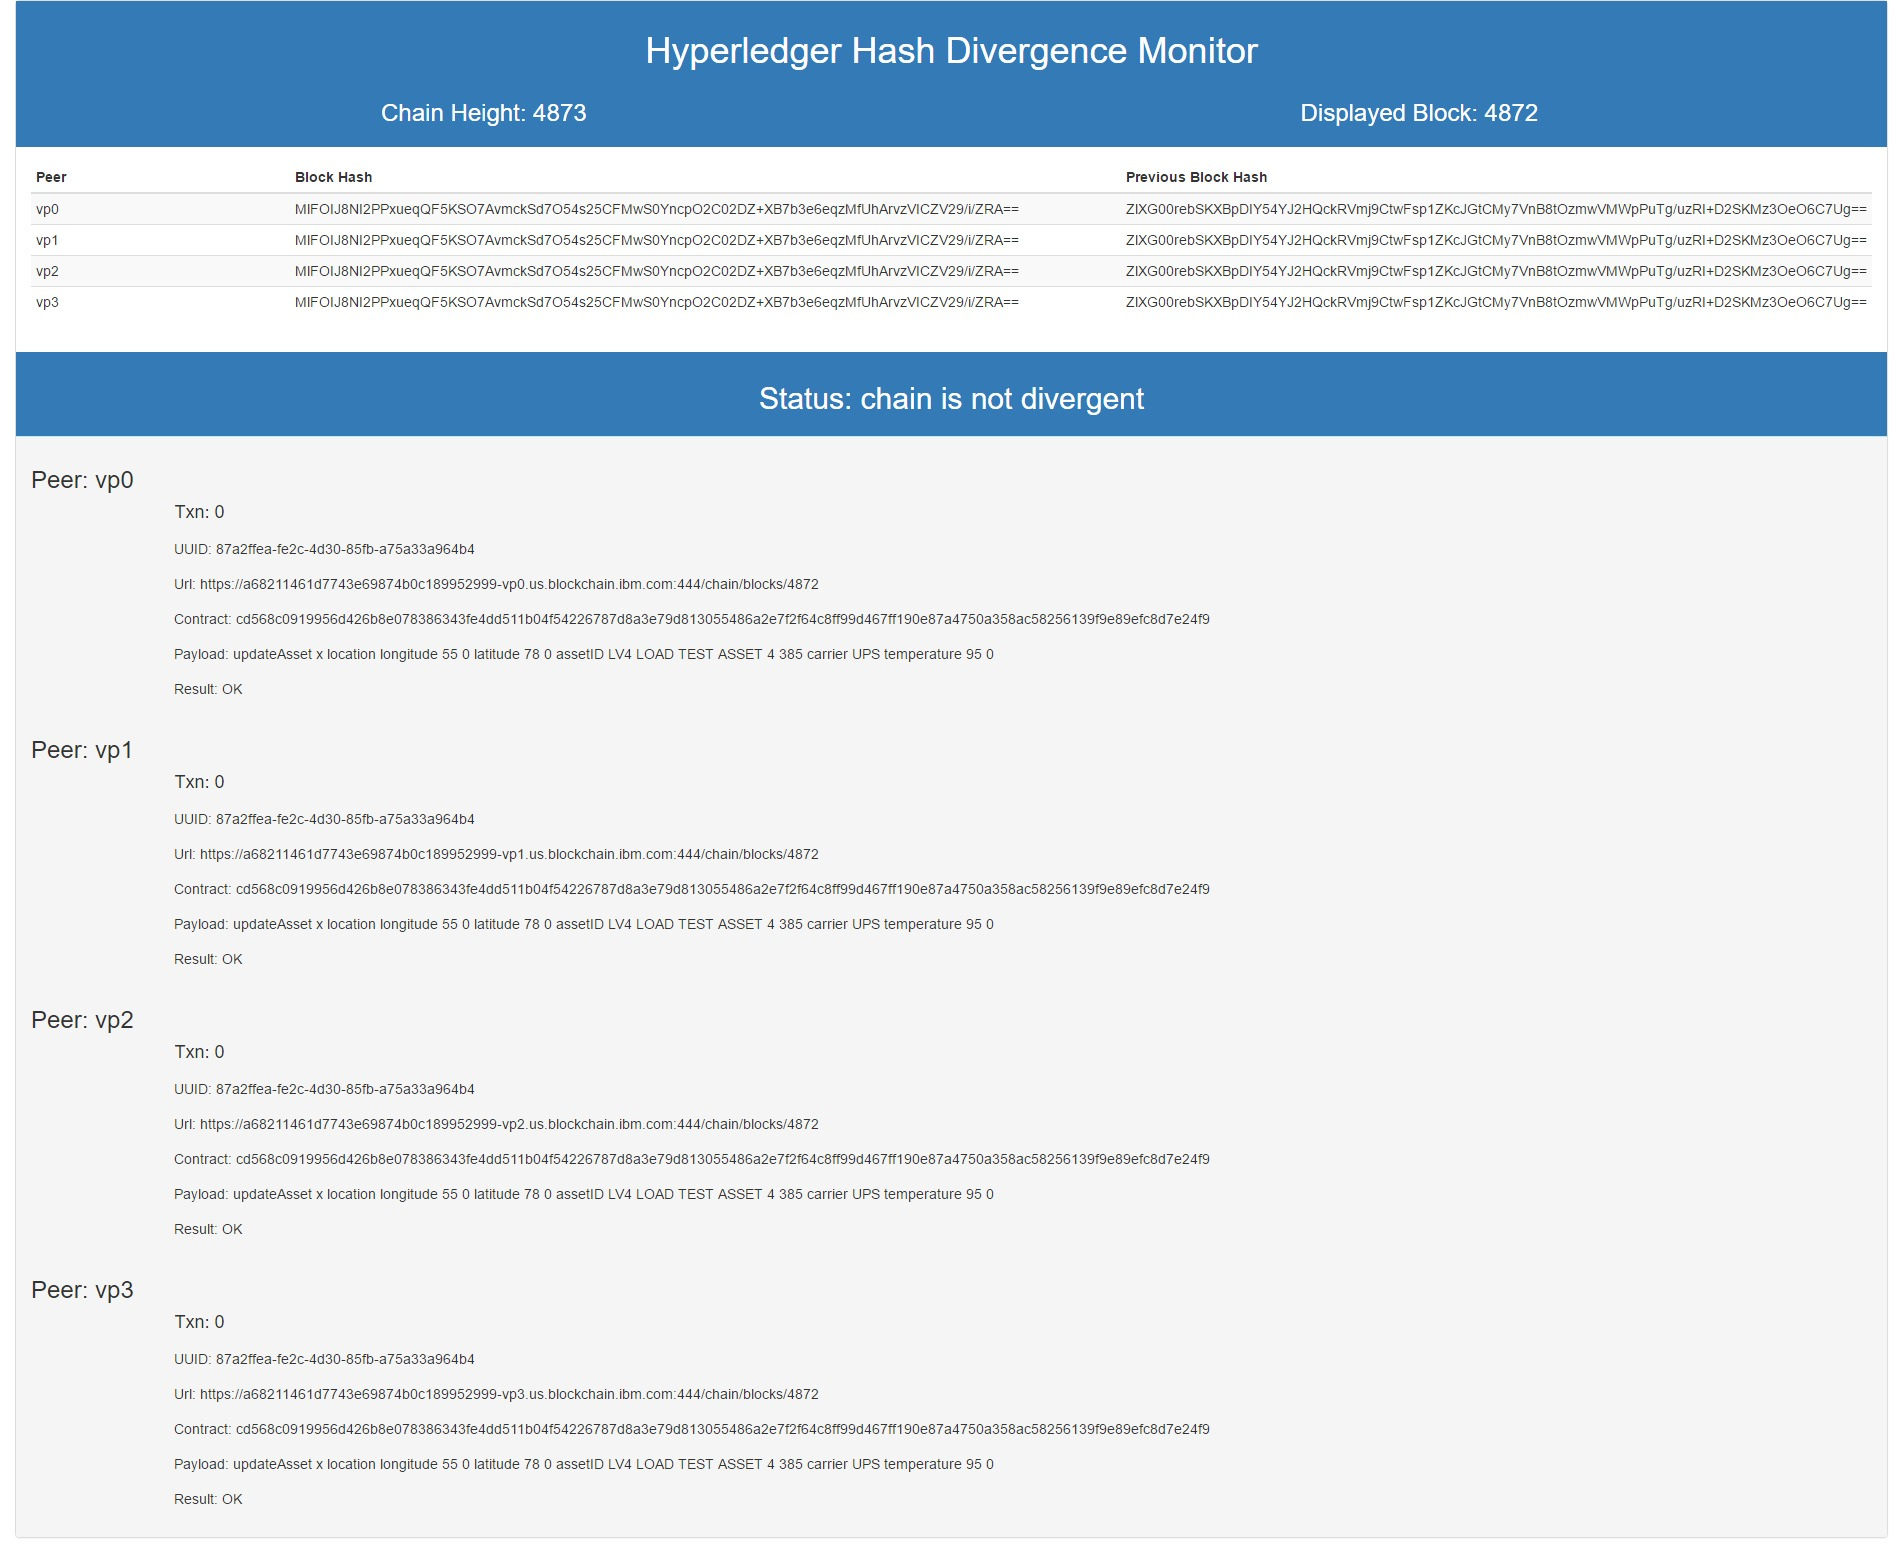
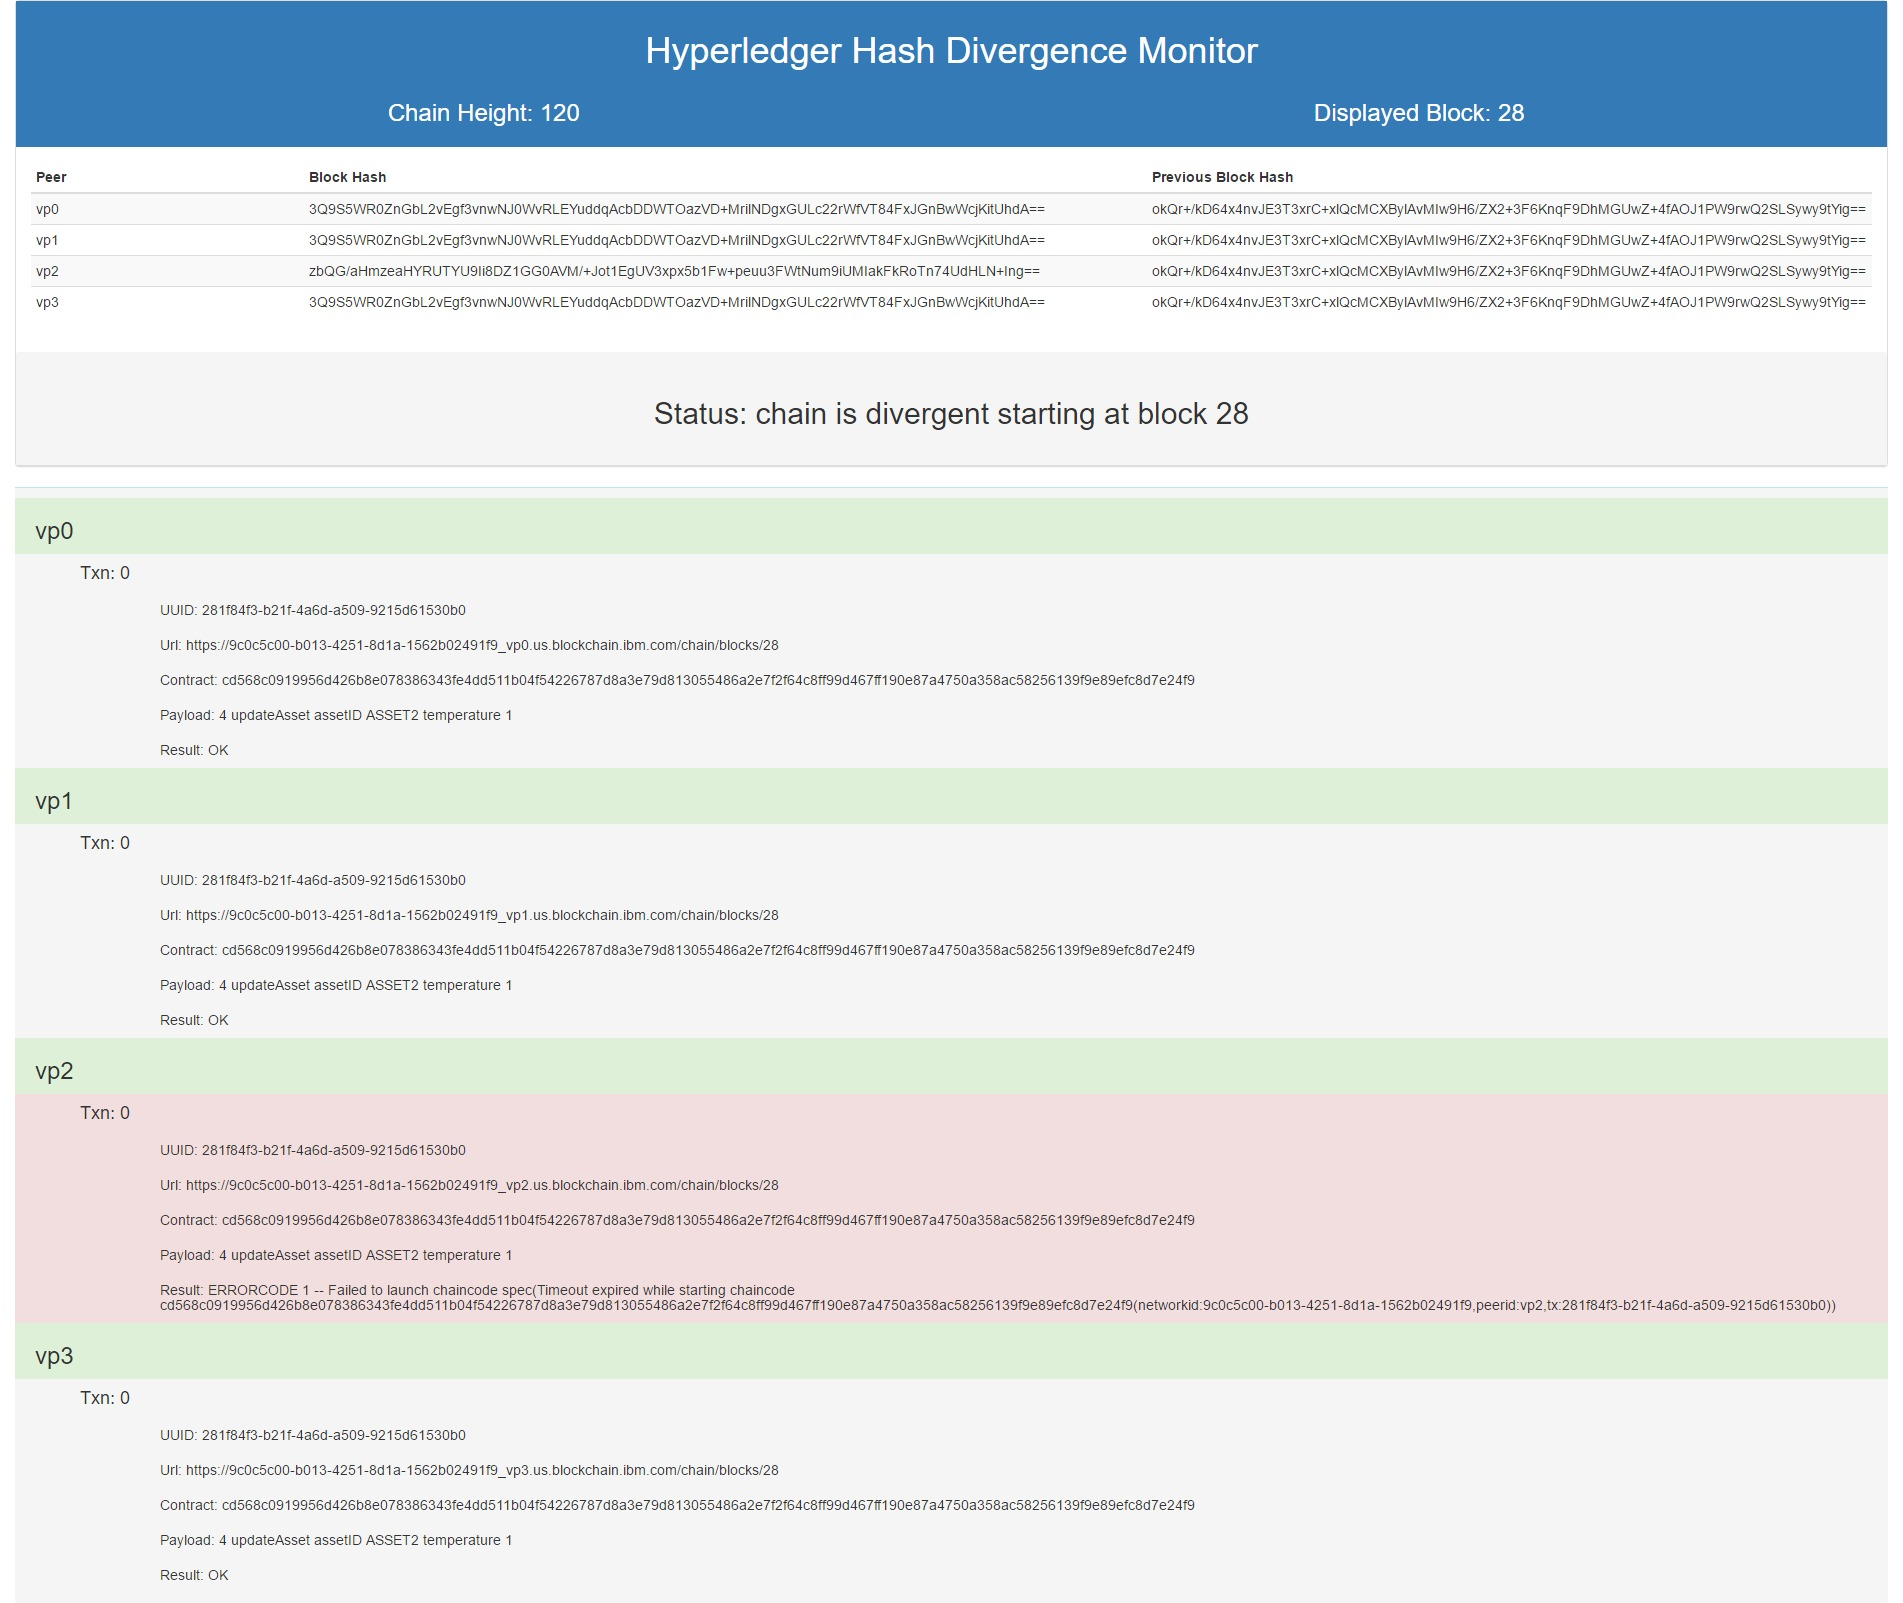
update display to highlight chain issues and improve hierarchy

diff --git a/testing/node-red/Hyperledger Hash Divergence Monitor/README.md b/testing/node-red/Hyperledger Hash Divergence Monitor/README.md
@@ -52,15 +52,15 @@ The format when a fabric is not divergent looks like this:
 
 ![Display of Non-Divergent Fabric](divergent_monitor_output_notdivergent.jpeg)
 
+> The non-divergent example also shows how multiple transactions are render. 
+
 And the format when a divergent fabric is displayed looks like this:
 
 ![Display of Non-Divergent Fabric](divergent_monitor_output_divergent.jpeg)
 
+> The divergent display changes both the banner and the offending transaction background color to bootstrap's "danger" color.
+
 Pointing a browser at `http://localhost:1890/status` will show the monitor. The tab in which the monitor displays can be set to refresh periodically for ongoing monitoring. The author does this using the chrome plugin [Auto Refresh](http://64px.com/auto-refresh/ifooldnmmcmlbdennkpdnlnbgbmfalko) to perform this task. While simplistic, it is very effective for such a simple flow.
-
-One last visualization -- multiple transactions. This happens to be a non-divergent fabric, but the results are similar for divergent fabrics as they use the same results creation node and display flow.
-
-![Display of Non-Divergent Fabric](divergent_monitor_output_multitxn.jpeg)
 
 ## Console Output
 
@@ -135,385 +135,6 @@ DIVERGENT BLOCK: 28
 FINAL RESPONSES FROM SEARCH
 OUTPUT FROM BINARY SEARCH FLOW
 {
-  "_msgid": "2332e0f0.dccd2",
-  "topic": "",
-  "payload": {
-    "responses": {
-      "_msgid": "2332e0f0.dccd2",
-      "topic": "",
-      "payload": {
-        "responses": [
-          {
-            "topic": "peer",
-            "peername": "vp0",
-            "url": "https://9c0c5c00-b013-4251-8d1a-1562b02491f9_vp0.us.blockchain.ibm.com/chain/blocks/28",
-            "_msgid": "2332e0f0.dccd2",
-            "statusCode": 200,
-            "headers": {
-              "access-control-allow-headers": "accept, content-type",
-              "access-control-allow-origin": "*",
-              "content-type": "application/json",
-              "date": "Thu, 20 Oct 2016 16:26:41 GMT",
-              "content-length": "1953",
-              "connection": "close",
-              "server": "nghttpx nghttp2/1.12.0",
-              "via": "1.1 nghttpx"
-            },
-            "payload": {
-              "transactions": [
-                {
-                  "type": 2,
[4 lines of base64/hex data omitted]
-QyIiwidGVtcGVyYXR1cmUiOi0xfQ==",
-                  "uuid": "281f84f3-b21f-4a6d-a509-9215d61530b0",
-                  "timestamp": {
-                    "seconds": 1474401132,
-                    "nanos": 580416281
-                  },
-                  "nonce": "Wejzq1C6dj2/q+vOioboIXM2bAV4J44b",
[6 lines of base64/hex data omitted]
-uu8HMgRZflWDGNpFngaE/t/9LTxe2lcQKx4xdS+ocA=",
[1 lines of base64/hex data omitted]
-                }
-              ],
[2 lines of base64/hex data omitted]
-              "consensusMetadata": "CBw=",
-              "nonHashData": {
-                "localLedgerCommitTimestamp": {
-                  "seconds": 1474401133,
-                  "nanos": 607011046
-                },
-                "transactionResults": [
-                  {
-                    "uuid": "281f84f3-b21f-4a6d-a509-9215d61530b0"
-                  }
-                ]
-              }
-            }
-          },
-          {
-            "topic": "peer",
-            "peername": "vp1",
-            "url": "https://9c0c5c00-b013-4251-8d1a-1562b02491f9_vp1.us.blockchain.ibm.com/chain/blocks/28",
-            "_msgid": "2332e0f0.dccd2",
-            "statusCode": 200,
-            "headers": {
-              "access-control-allow-headers": "accept, content-type",
-              "access-control-allow-origin": "*",
-              "content-type": "application/json",
-              "date": "Thu, 20 Oct 2016 16:26:41 GMT",
-              "content-length": "1953",
-              "connection": "close",
-              "server": "nghttpx nghttp2/1.12.0",
-              "via": "1.1 nghttpx"
-            },
-            "payload": {
-              "transactions": [
-                {
-                  "type": 2,
[4 lines of base64/hex data omitted]
-QyIiwidGVtcGVyYXR1cmUiOi0xfQ==",
-                  "uuid": "281f84f3-b21f-4a6d-a509-9215d61530b0",
-                  "timestamp": {
-                    "seconds": 1474401132,
-                    "nanos": 580416281
-                  },
-                  "nonce": "Wejzq1C6dj2/q+vOioboIXM2bAV4J44b",
[6 lines of base64/hex data omitted]
-uu8HMgRZflWDGNpFngaE/t/9LTxe2lcQKx4xdS+ocA=",
[1 lines of base64/hex data omitted]
-                }
-              ],
[2 lines of base64/hex data omitted]
-              "consensusMetadata": "CBw=",
-              "nonHashData": {
-                "localLedgerCommitTimestamp": {
-                  "seconds": 1474401201,
-                  "nanos": 505264166
-                },
-                "transactionResults": [
-                  {
-                    "uuid": "281f84f3-b21f-4a6d-a509-9215d61530b0"
-                  }
-                ]
-              }
-            }
-          },
-          {
-            "topic": "peer",
-            "peername": "vp2",
-            "url": "https://9c0c5c00-b013-4251-8d1a-1562b02491f9_vp2.us.blockchain.ibm.com/chain/blocks/28",
-            "_msgid": "2332e0f0.dccd2",
-            "statusCode": 200,
-            "headers": {
-              "access-control-allow-headers": "accept, content-type",
-              "access-control-allow-origin": "*",
-              "content-type": "application/json",
-              "date": "Thu, 20 Oct 2016 16:26:41 GMT",
-              "transfer-encoding": "chunked",
-              "connection": "close",
-              "server": "nghttpx nghttp2/1.12.0",
-              "via": "1.1 nghttpx"
-            },
-            "payload": {
-              "transactions": [
-                {
-                  "type": 2,
[4 lines of base64/hex data omitted]
-QyIiwidGVtcGVyYXR1cmUiOi0xfQ==",
-                  "uuid": "281f84f3-b21f-4a6d-a509-9215d61530b0",
-                  "timestamp": {
-                    "seconds": 1474401132,
-                    "nanos": 580416281
-                  },
-                  "nonce": "Wejzq1C6dj2/q+vOioboIXM2bAV4J44b",
[6 lines of base64/hex data omitted]
-uu8HMgRZflWDGNpFngaE/t/9LTxe2lcQKx4xdS+ocA=",
[1 lines of base64/hex data omitted]
-                }
-              ],
[2 lines of base64/hex data omitted]
-              "consensusMetadata": "CBw=",
-              "nonHashData": {
-                "localLedgerCommitTimestamp": {
-                  "seconds": 1474401374,
-                  "nanos": 290927171
-                },
-                "transactionResults": [
-                  {
-                    "uuid": "281f84f3-b21f-4a6d-a509-9215d61530b0",
-                    "errorCode": 1,
-                    "error": "Failed to launch chaincode spec(Timeout expired while starting chaincode cd568c0919956d426b8e0783863
-43fe4dd511b04f54226787d8a3e79d813055486a2e7f2f64c8ff99d467ff190e87a4750a358ac58256139f9e89efc8d7e24f9(networkid:9c0c5c00-b013-4251
--8d1a-1562b02491f9,peerid:vp2,tx:281f84f3-b21f-4a6d-a509-9215d61530b0))"
-                  }
-                ]
-              }
-            }
-          },
-          {
-            "topic": "peer",
-            "peername": "vp3",
-            "url": "https://9c0c5c00-b013-4251-8d1a-1562b02491f9_vp3.us.blockchain.ibm.com/chain/blocks/28",
-            "_msgid": "2332e0f0.dccd2",
-            "statusCode": 200,
-            "headers": {
-              "access-control-allow-headers": "accept, content-type",
-              "access-control-allow-origin": "*",
-              "content-type": "application/json",
-              "date": "Thu, 20 Oct 2016 16:26:41 GMT",
-              "content-length": "1952",
-              "connection": "close",
-              "server": "nghttpx nghttp2/1.12.0",
-              "via": "1.1 nghttpx"
-            },
-            "payload": {
-              "transactions": [
-                {
-                  "type": 2,
[4 lines of base64/hex data omitted]
-QyIiwidGVtcGVyYXR1cmUiOi0xfQ==",
-                  "uuid": "281f84f3-b21f-4a6d-a509-9215d61530b0",
-                  "timestamp": {
-                    "seconds": 1474401132,
-                    "nanos": 580416281
-                  },
-                  "nonce": "Wejzq1C6dj2/q+vOioboIXM2bAV4J44b",
[6 lines of base64/hex data omitted]
-uu8HMgRZflWDGNpFngaE/t/9LTxe2lcQKx4xdS+ocA=",
[1 lines of base64/hex data omitted]
-                }
-              ],
[2 lines of base64/hex data omitted]
-              "consensusMetadata": "CBw=",
-              "nonHashData": {
-                "localLedgerCommitTimestamp": {
-                  "seconds": 1474401170,
-                  "nanos": 13054129
-                },
-                "transactionResults": [
-                  {
-                    "uuid": "281f84f3-b21f-4a6d-a509-9215d61530b0"
-                  }
-                ]
-              }
-            }
-          }
-        ],
-        "heightspresent": "all",
-        "peernames": [
-          "vp0",
-          "vp2",
-          "vp3",
-          "vp1"
-        ],
-        "heights": [
-          118,
-          118,
-          118,
-          118
-        ],
-        "hashes": [
[4 lines of base64/hex data omitted]
-        ],
-        "previoushashes": [
[4 lines of base64/hex data omitted]
-        ],
-        "heightsame": true,
-        "height": 118,
-        "blocknumber": 28,
-        "hashsame": false,
-        "top": 29,
-        "bottom": 27
-      }
-    },
-    "heightspresent": "all",
-    "peernames": [
-      "vp0",
-      "vp1",
-      "vp2",
-      "vp3"
-    ],
-    "heights": [
-      118,
-      118,
-      118,
-      118
-    ],
-    "hashes": [
[4 lines of base64/hex data omitted]
-    ],
-    "previoushashes": [
[4 lines of base64/hex data omitted]
-    ],
-    "heightsame": true,
-    "height": 118,
-    "blocknumber": 28,
-    "hashsame": false,
-    "top": 28,
-    "bottom": 27,
-    "divergent": 28,
-    "message": "chain is divergent starting at block 28",
-    "transactions": [
-      {
-        "txn": 0,
-        "peer": "vp0",
-        "url": "https://9c0c5c00-b013-4251-8d1a-1562b02491f9_vp0.us.blockchain.ibm.com/chain/blocks/28",
-        "chaincodeid": "\u0012�\u0001cd568c0919956d426b8e078386343fe4dd511b04f54226787d8a3e79d813055486a2e7f2f64c8ff99d467ff190e87
-a4750a358ac58256139f9e89efc8d7e24f9",
-        "payload": "\n�\u0001\b\u0001\u0012�\u0001\u0012�\u0001cd568c0919956d426b8e078386343fe4dd511b04f54226787d8a3e79d813055486a
-2e7f2f64c8ff99d467ff190e87a4750a358ac58256139f9e89efc8d7e24f9\u001a4\n\u000bupdateAsset\u0012%{\"assetID\":\"ASSET2\",\"temperatur
-e\":-1}",
-        "uuid": "281f84f3-b21f-4a6d-a509-9215d61530b0",
-        "timestamp": "Tue Sep 20 2016 15:52:12 GMT-0400 (Eastern Daylight Time)",
-        "result": {
-          "uuid": "281f84f3-b21f-4a6d-a509-9215d61530b0"
-        }
-      },
-      {
-        "txn": 0,
-        "peer": "vp1",
-        "url": "https://9c0c5c00-b013-4251-8d1a-1562b02491f9_vp1.us.blockchain.ibm.com/chain/blocks/28",
-        "chaincodeid": "\u0012�\u0001cd568c0919956d426b8e078386343fe4dd511b04f54226787d8a3e79d813055486a2e7f2f64c8ff99d467ff190e87
-a4750a358ac58256139f9e89efc8d7e24f9",
-        "payload": "\n�\u0001\b\u0001\u0012�\u0001\u0012�\u0001cd568c0919956d426b8e078386343fe4dd511b04f54226787d8a3e79d813055486a
-2e7f2f64c8ff99d467ff190e87a4750a358ac58256139f9e89efc8d7e24f9\u001a4\n\u000bupdateAsset\u0012%{\"assetID\":\"ASSET2\",\"temperatur
-e\":-1}",
-        "uuid": "281f84f3-b21f-4a6d-a509-9215d61530b0",
-        "timestamp": "Tue Sep 20 2016 15:52:12 GMT-0400 (Eastern Daylight Time)",
-        "result": {
-          "uuid": "281f84f3-b21f-4a6d-a509-9215d61530b0"
-        }
-      },
-      {
-        "txn": 0,
-        "peer": "vp2",
-        "url": "https://9c0c5c00-b013-4251-8d1a-1562b02491f9_vp2.us.blockchain.ibm.com/chain/blocks/28",
-        "chaincodeid": "\u0012�\u0001cd568c0919956d426b8e078386343fe4dd511b04f54226787d8a3e79d813055486a2e7f2f64c8ff99d467ff190e87
-a4750a358ac58256139f9e89efc8d7e24f9",
-        "payload": "\n�\u0001\b\u0001\u0012�\u0001\u0012�\u0001cd568c0919956d426b8e078386343fe4dd511b04f54226787d8a3e79d813055486a
-2e7f2f64c8ff99d467ff190e87a4750a358ac58256139f9e89efc8d7e24f9\u001a4\n\u000bupdateAsset\u0012%{\"assetID\":\"ASSET2\",\"temperatur
-e\":-1}",
-        "uuid": "281f84f3-b21f-4a6d-a509-9215d61530b0",
-        "timestamp": "Tue Sep 20 2016 15:52:12 GMT-0400 (Eastern Daylight Time)",
-        "result": {
-          "uuid": "281f84f3-b21f-4a6d-a509-9215d61530b0",
-          "errorCode": 1,
-          "error": "Failed to launch chaincode spec(Timeout expired while starting chaincode cd568c0919956d426b8e078386343fe4dd511
-b04f54226787d8a3e79d813055486a2e7f2f64c8ff99d467ff190e87a4750a358ac58256139f9e89efc8d7e24f9(networkid:9c0c5c00-b013-4251-8d1a-1562
-b02491f9,peerid:vp2,tx:281f84f3-b21f-4a6d-a509-9215d61530b0))"
-        }
-      },
-      {
-        "txn": 0,
-        "peer": "vp3",
-        "url": "https://9c0c5c00-b013-4251-8d1a-1562b02491f9_vp3.us.blockchain.ibm.com/chain/blocks/28",
-        "chaincodeid": "\u0012�\u0001cd568c0919956d426b8e078386343fe4dd511b04f54226787d8a3e79d813055486a2e7f2f64c8ff99d467ff190e87
-a4750a358ac58256139f9e89efc8d7e24f9",
-        "payload": "\n�\u0001\b\u0001\u0012�\u0001\u0012�\u0001cd568c0919956d426b8e078386343fe4dd511b04f54226787d8a3e79d813055486a
-2e7f2f64c8ff99d467ff190e87a4750a358ac58256139f9e89efc8d7e24f9\u001a4\n\u000bupdateAsset\u0012%{\"assetID\":\"ASSET2\",\"temperatur
-e\":-1}",
-        "uuid": "281f84f3-b21f-4a6d-a509-9215d61530b0",
-        "timestamp": "Tue Sep 20 2016 15:52:12 GMT-0400 (Eastern Daylight Time)",
-        "result": {
-          "uuid": "281f84f3-b21f-4a6d-a509-9215d61530b0"
-        }
-      }
-    ],
-    "urls": [
-      "https://9c0c5c00-b013-4251-8d1a-1562b02491f9_vp0.us.blockchain.ibm.com/chain/blocks/28",
-      "https://9c0c5c00-b013-4251-8d1a-1562b02491f9_vp1.us.blockchain.ibm.com/chain/blocks/28",
-      "https://9c0c5c00-b013-4251-8d1a-1562b02491f9_vp2.us.blockchain.ibm.com/chain/blocks/28",
-      "https://9c0c5c00-b013-4251-8d1a-1562b02491f9_vp3.us.blockchain.ibm.com/chain/blocks/28"
-    ]
-  }
+  here it shows the entire response from the status file
 }
 ```
